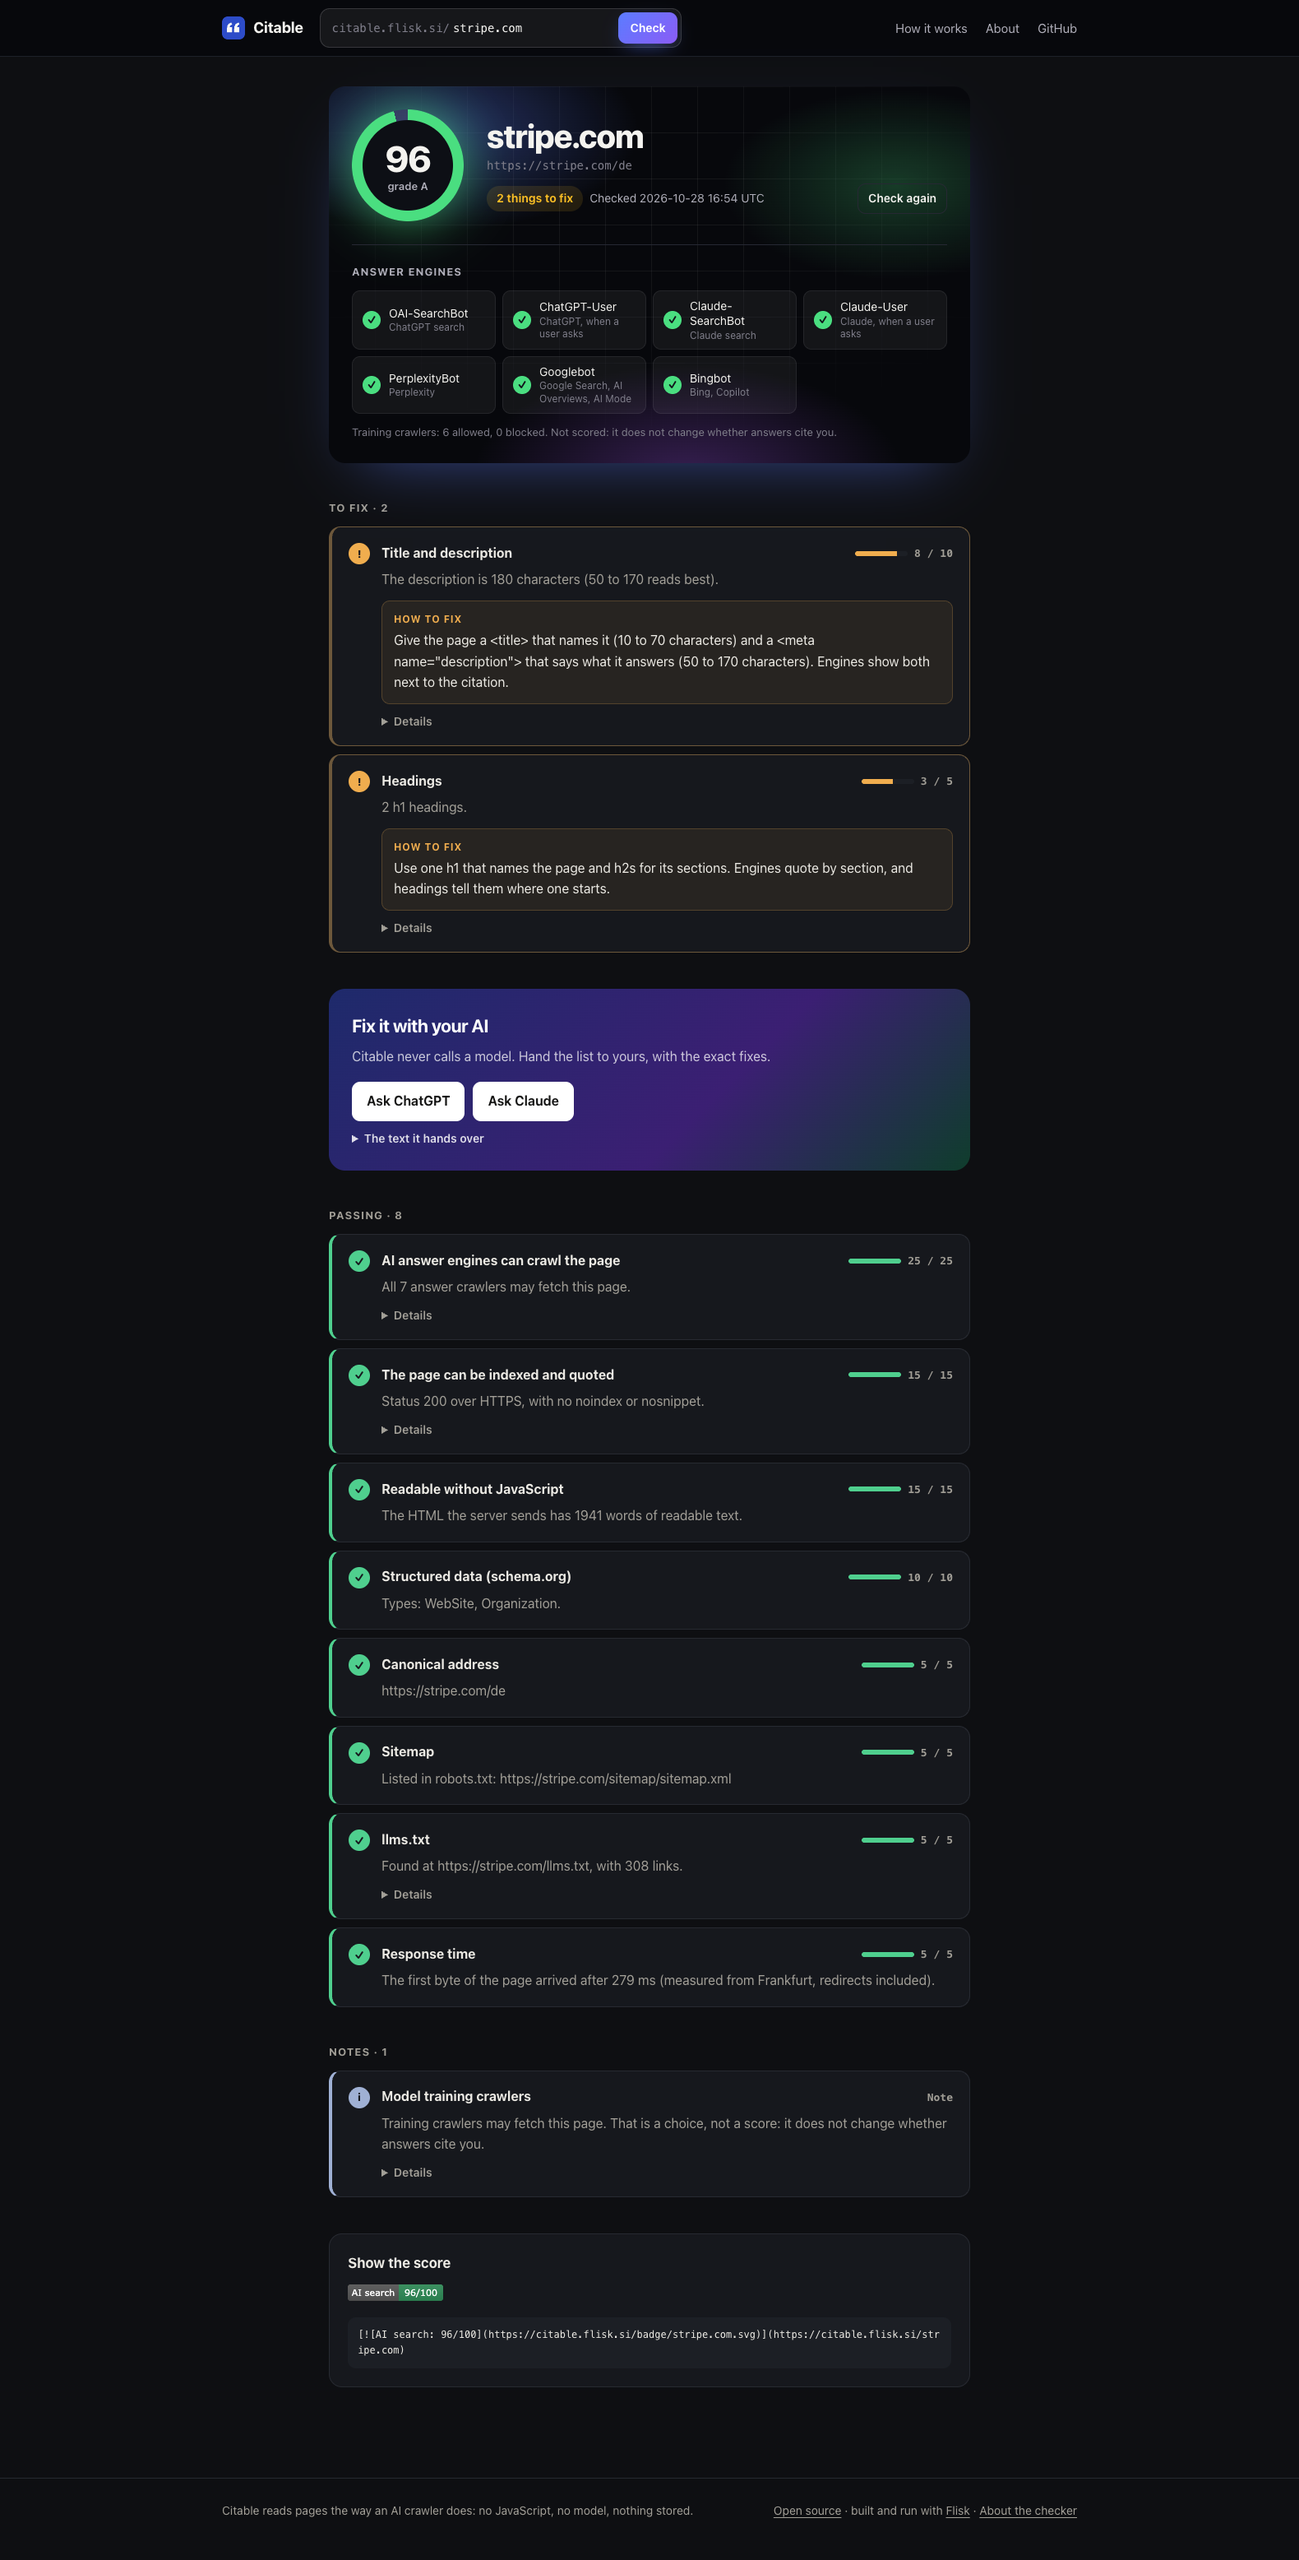
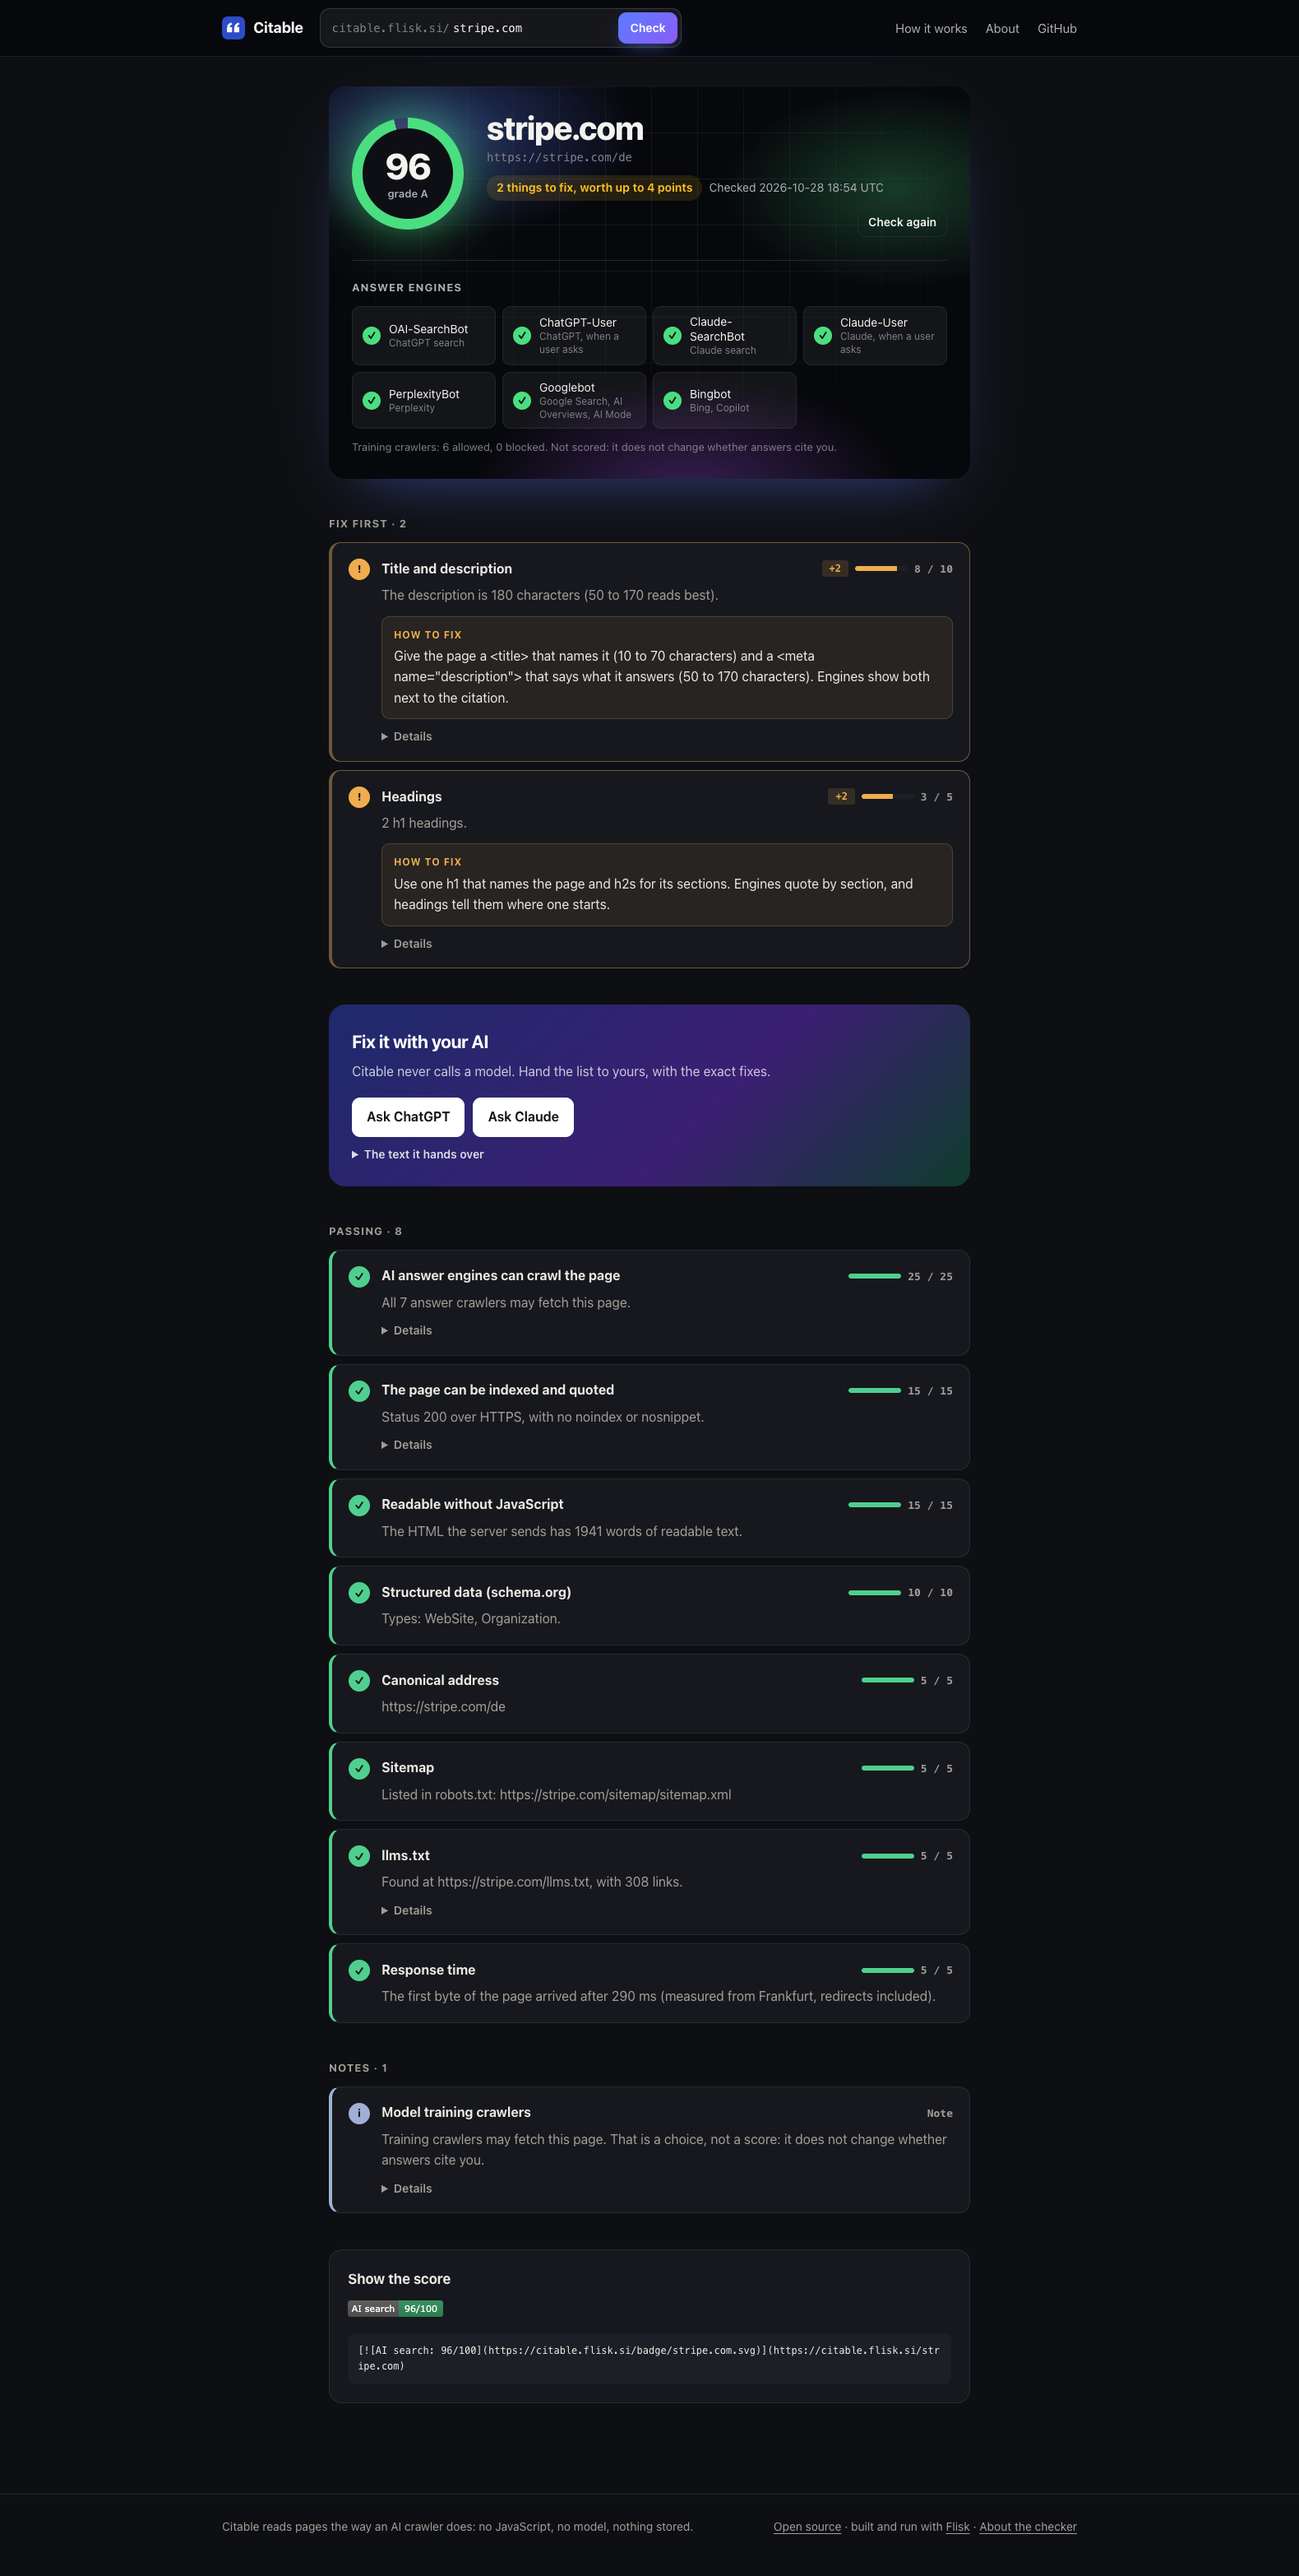
feat(action): GitHub Action that gates and shows the AI search score on CI (#5)
* feat(action): GitHub Action that gates and shows the AI search score on CI

* fix(action): run the CLI outside the workspace and keep going past a failing check

* ci: print the report in the self-test

* fix(action): wait up to 20 s per request by default; drop the debug step

* feat(action): wait for a sleeping host to answer before scoring (wait, 90 s)

---------

diff --git a/README.md b/README.md
@@ -18,6 +18,21 @@ Citable reads the page the way ChatGPT search, Claude, Perplexity, Google AI Ove
 - **A badge.** `![AI search](https://citable.flisk.si/badge/example.com.svg)`.
 - **No signup, no database, no API key.** The URL is the state. Reports live in memory for an hour, then they are gone.
 
+## GitHub Action
+
+Gate a pull request, or a weekly check, on the score. The job summary shows the table; the job fails below `min-score`.
+
+```yaml
+- uses: flisk-sh/citable@v1
+  with:
+    urls: https://example.com/
+    min-score: 90
+```
+
+Inputs: `urls` (one per line), `min-score`, `skip` (default `speed`), `version` (the npm package, pinned), `wait` (seconds to let a sleeping host wake up, 90), `timeout`.
+Outputs: `score` and `grade` of the lowest page, `passed`, and `report`, the JSON file. It runs the
+[CLI](packages/citable/README.md), so a local preview works too: `urls: http://localhost:4173/`.
+
 ## Run it
 
 Needs Docker, Tilt and the [Flisk CLI](https://github.com/flisk-sh/flisk).
